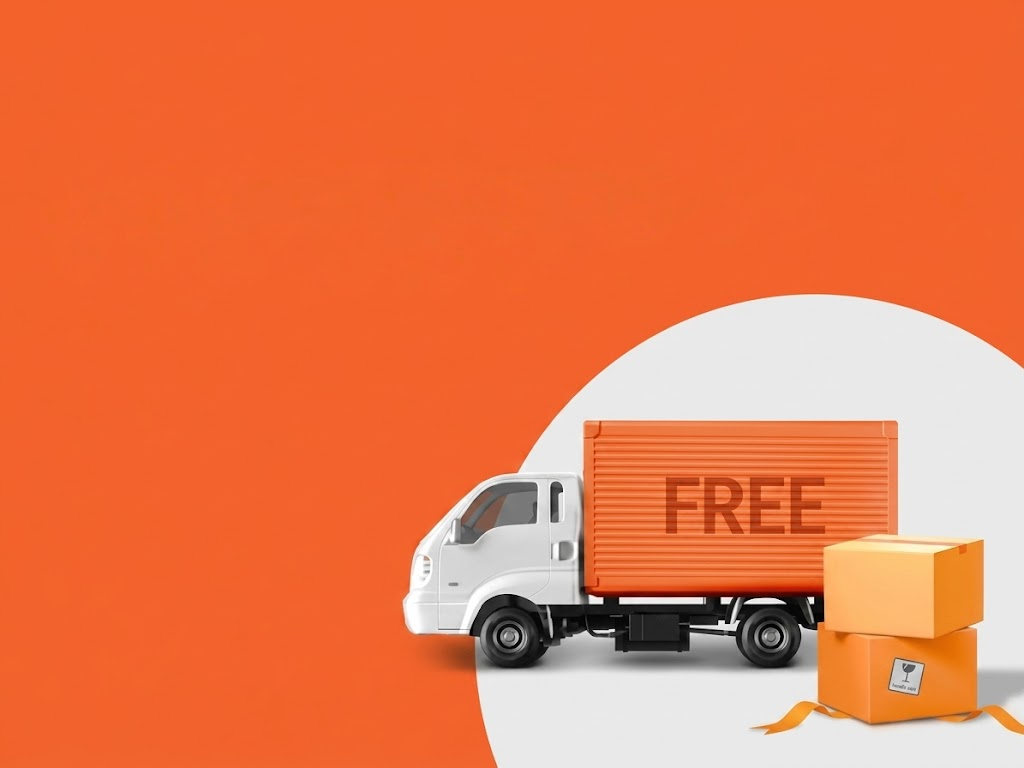
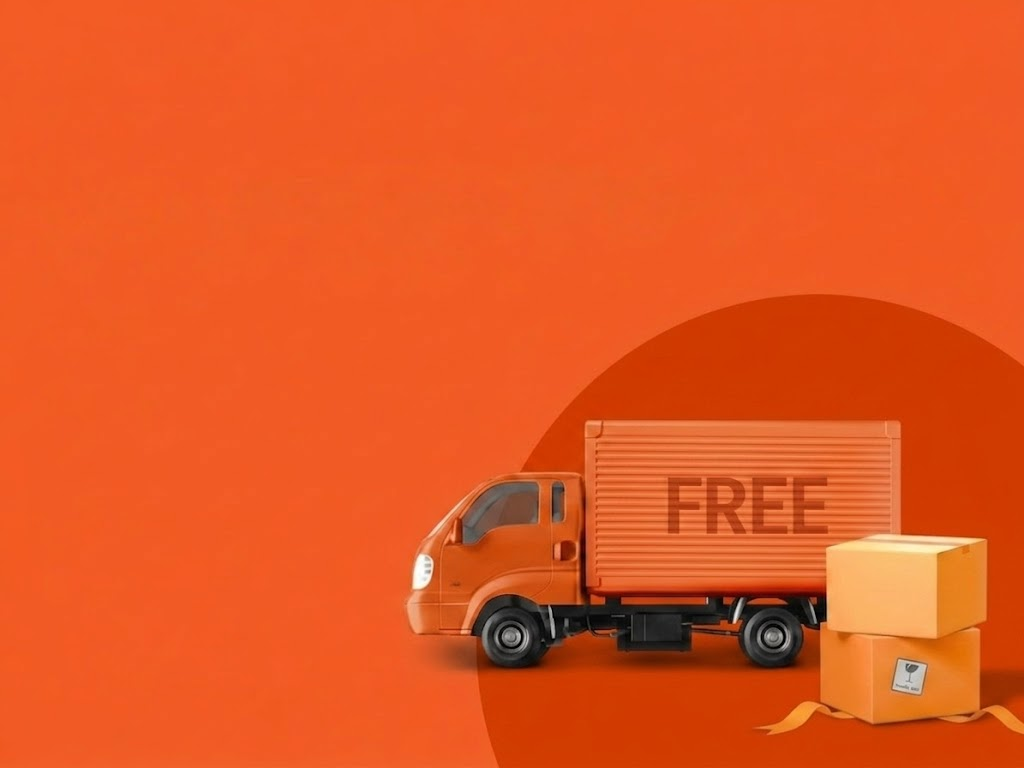
assets: update ss.jpg + bump cache-bust param

diff --git a/index.html b/index.html
@@ -1753,7 +1753,7 @@ window._tcmFallbackClick = function(code) {
         <div class="hero-twin-grid" style="display:grid; grid-template-columns:1fr 1fr; gap:18px; align-items:stretch;">
             <!-- 좌측 — 수도권 무료배송 (ss.jpg 배경, 약간 위로 보정) -->
             <a href="/?product=hb_dw_1" style="text-decoration:none; display:flex;">
-                <div class="hero-twin-card" style="background-image:url('/ss.jpg'); background-size:cover; background-position:center 85%; background-repeat:no-repeat; border-radius:18px; padding:30px 26px; color:#fff; box-shadow:0 16px 36px -14px rgba(15,23,42,0.45); position:relative; overflow:hidden; height:240px; width:100%; display:flex; align-items:center; box-sizing:border-box; transition:transform 0.2s, box-shadow 0.2s;" onmouseenter="this.style.transform='translateY(-3px)'; this.style.boxShadow='0 20px 44px -14px rgba(15,23,42,0.55)';" onmouseleave="this.style.transform=''; this.style.boxShadow='0 16px 36px -14px rgba(15,23,42,0.45)';">
+                <div class="hero-twin-card" style="background-image:url('/ss.jpg?v=2'); background-size:cover; background-position:center 85%; background-repeat:no-repeat; border-radius:18px; padding:30px 26px; color:#fff; box-shadow:0 16px 36px -14px rgba(15,23,42,0.45); position:relative; overflow:hidden; height:240px; width:100%; display:flex; align-items:center; box-sizing:border-box; transition:transform 0.2s, box-shadow 0.2s;" onmouseenter="this.style.transform='translateY(-3px)'; this.style.boxShadow='0 20px 44px -14px rgba(15,23,42,0.55)';" onmouseleave="this.style.transform=''; this.style.boxShadow='0 16px 36px -14px rgba(15,23,42,0.45)';">
                     <div style="flex:1; min-width:0; max-width:62%;">
                         <div style="display:inline-block; padding:5px 12px; background:rgba(255,255,255,0.18); border:1px solid rgba(255,255,255,0.32); border-radius:50px; font-size:10.5px; font-weight:800; letter-spacing:1.5px; margin-bottom:12px; color:#fff;" data-twin-key="badgeFree">METRO FREE DELIVERY</div>
                         <h2 style="font-size:26px; font-weight:900; letter-spacing:-0.02em; margin:0 0 12px 0; line-height:1.2; color:#fff;" data-twin-key="titleFree">수도권 전제품 무료배송</h2>